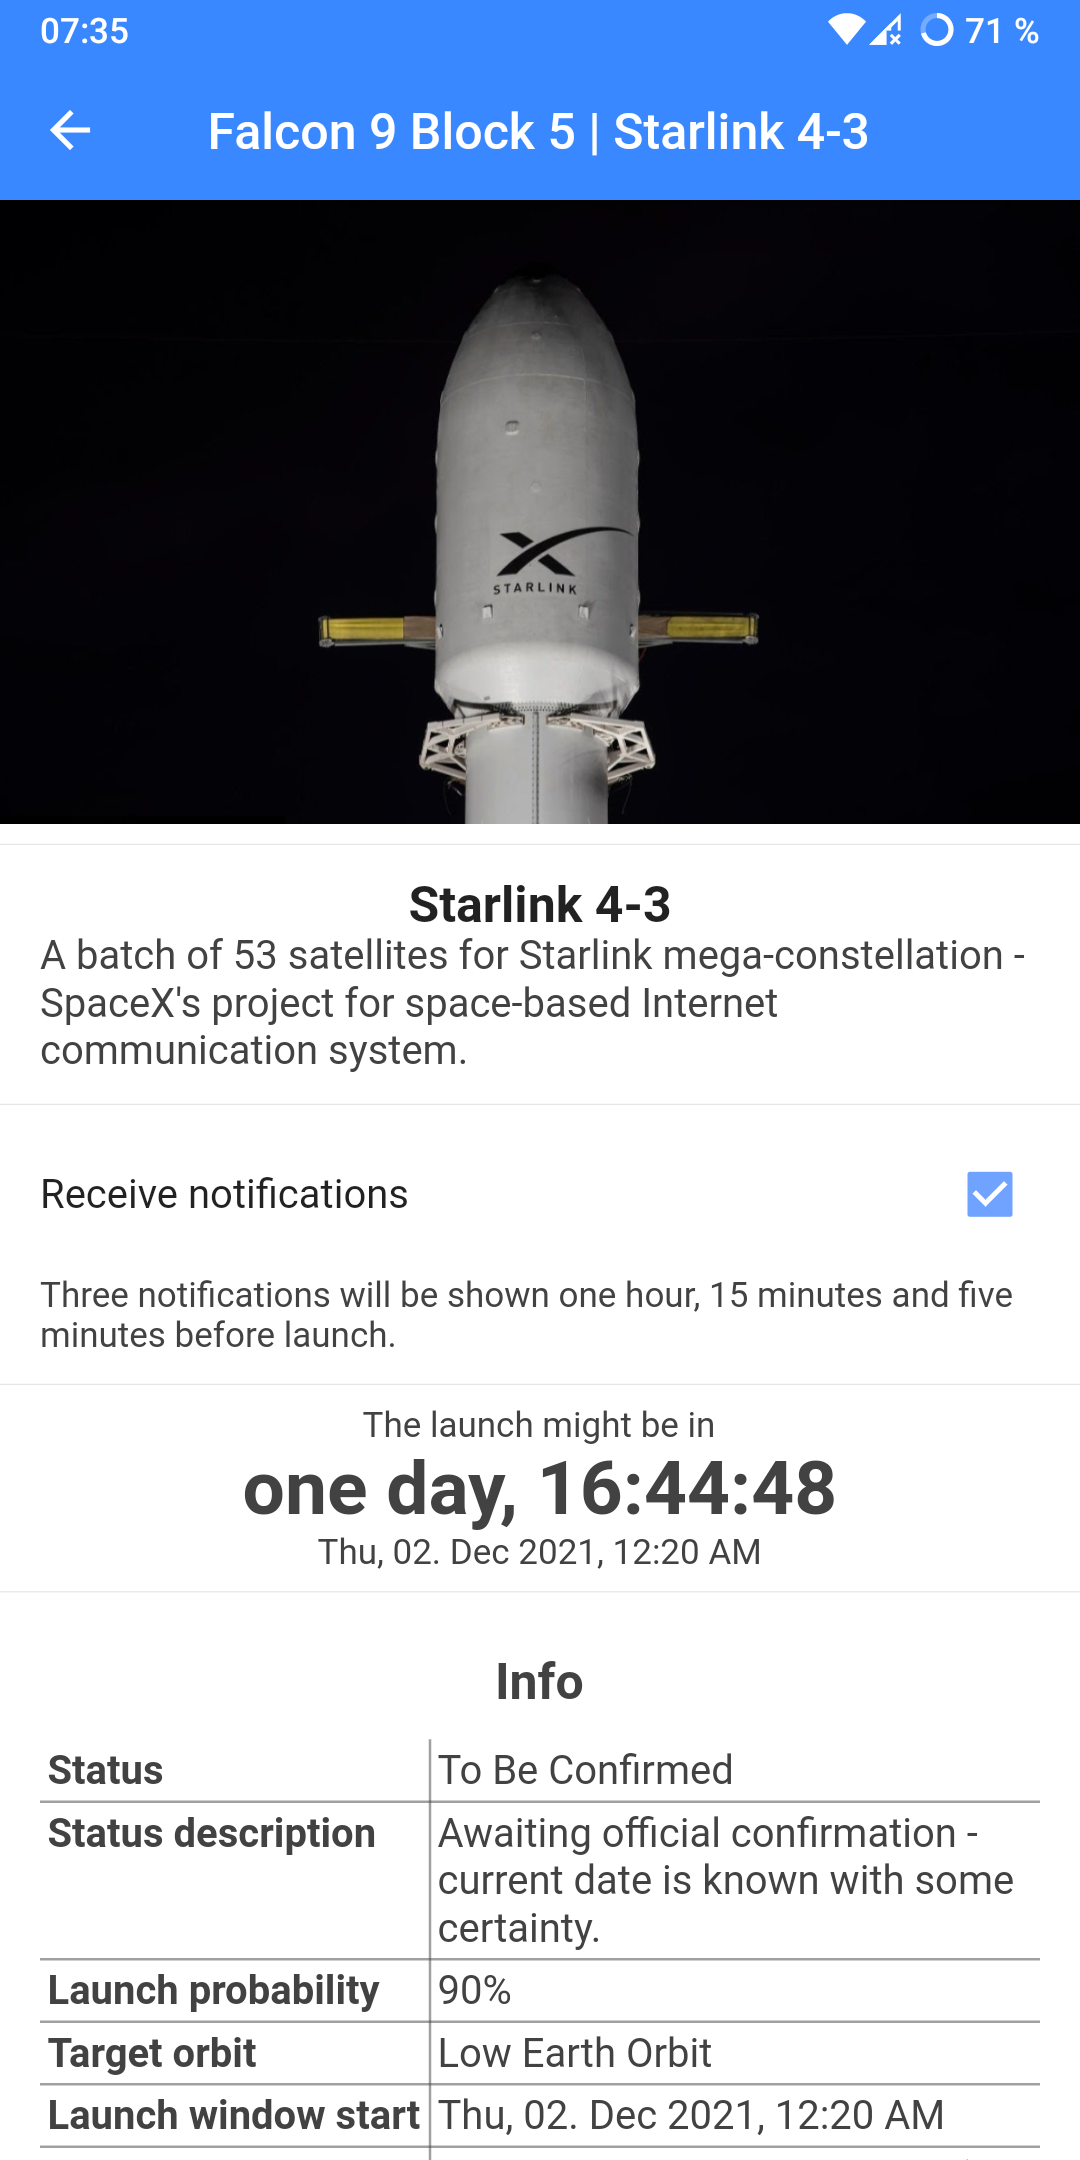
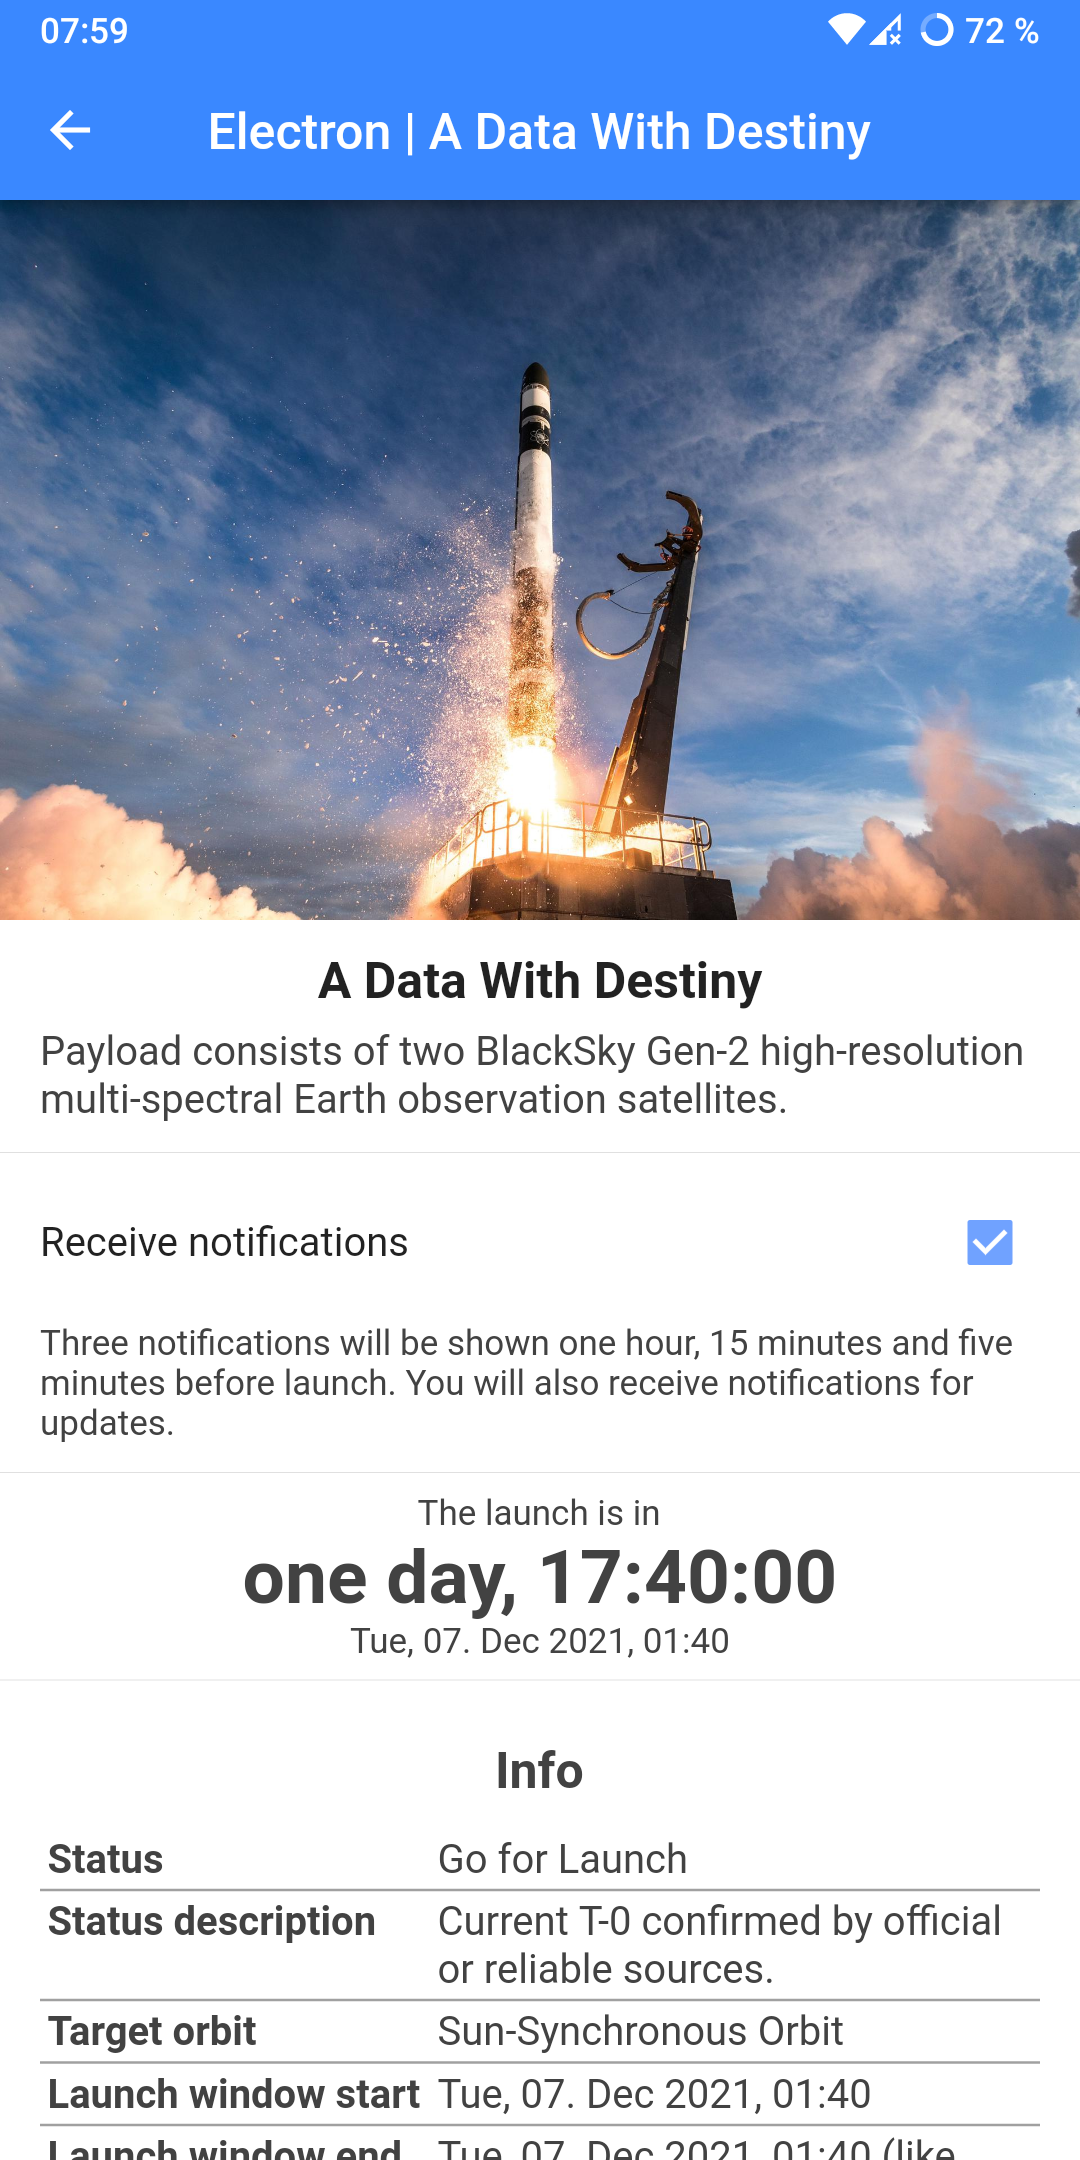
Update screenshots

diff --git a/README.md b/README.md
@@ -6,7 +6,7 @@ Rock It! is an Android app that helps you stay informed on all things space. It 
 - List upcoming launches and events (e.g. space station activity)
 - Show launch/event details and a countdown (including the date and time in your local timezone)
 - List latest space news articles
-- Subscribe to launches or events to receive notifications before they start
+- Subscribe to launches or events to receive notifications before the start or when times are updated
 - Localization for English and German (UI only, data is in English)
 - No internet? No problem! The app caches offline content for a few days and updates it when connected to the internet
 

diff --git a/ideas.md b/ideas.md
@@ -1,4 +1,1 @@
 ## TODOs
-* Notifications for 
-  * Launches, events (e.g. 15 minutes before)
-  * Updates to launches (e.g. for staying updated on starship orbital flight test)
